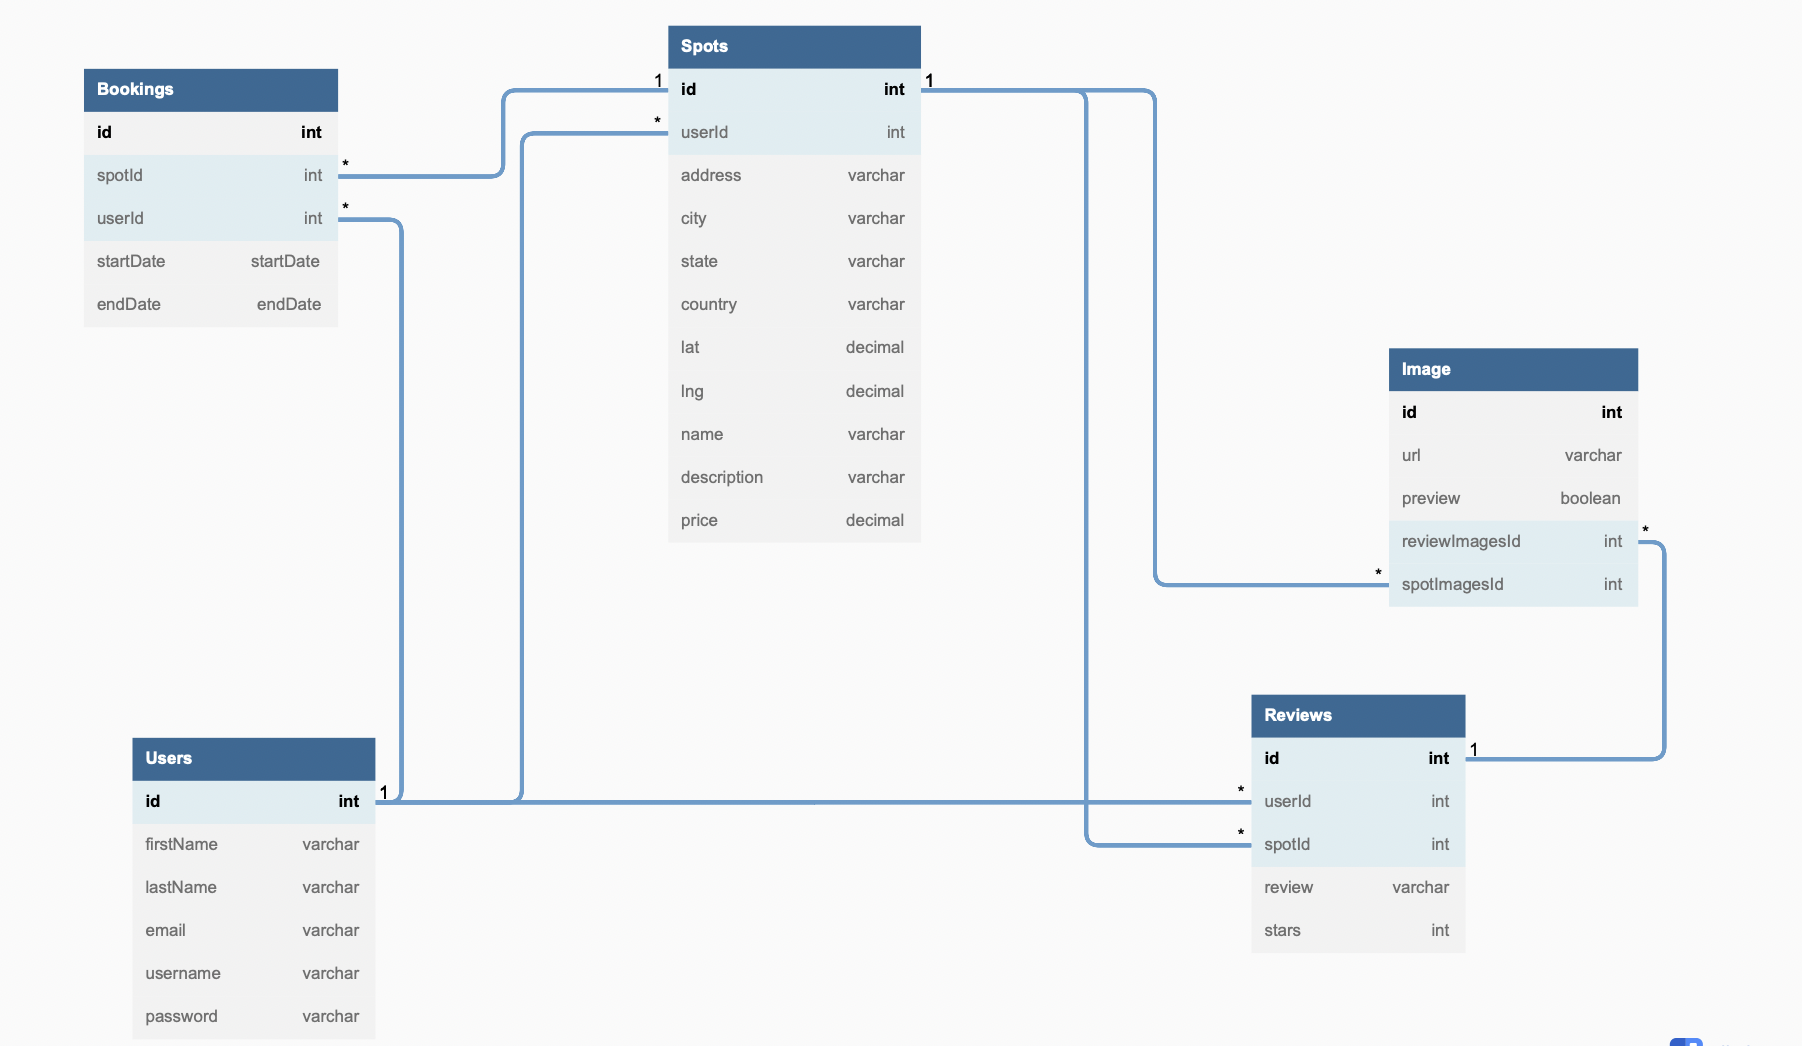
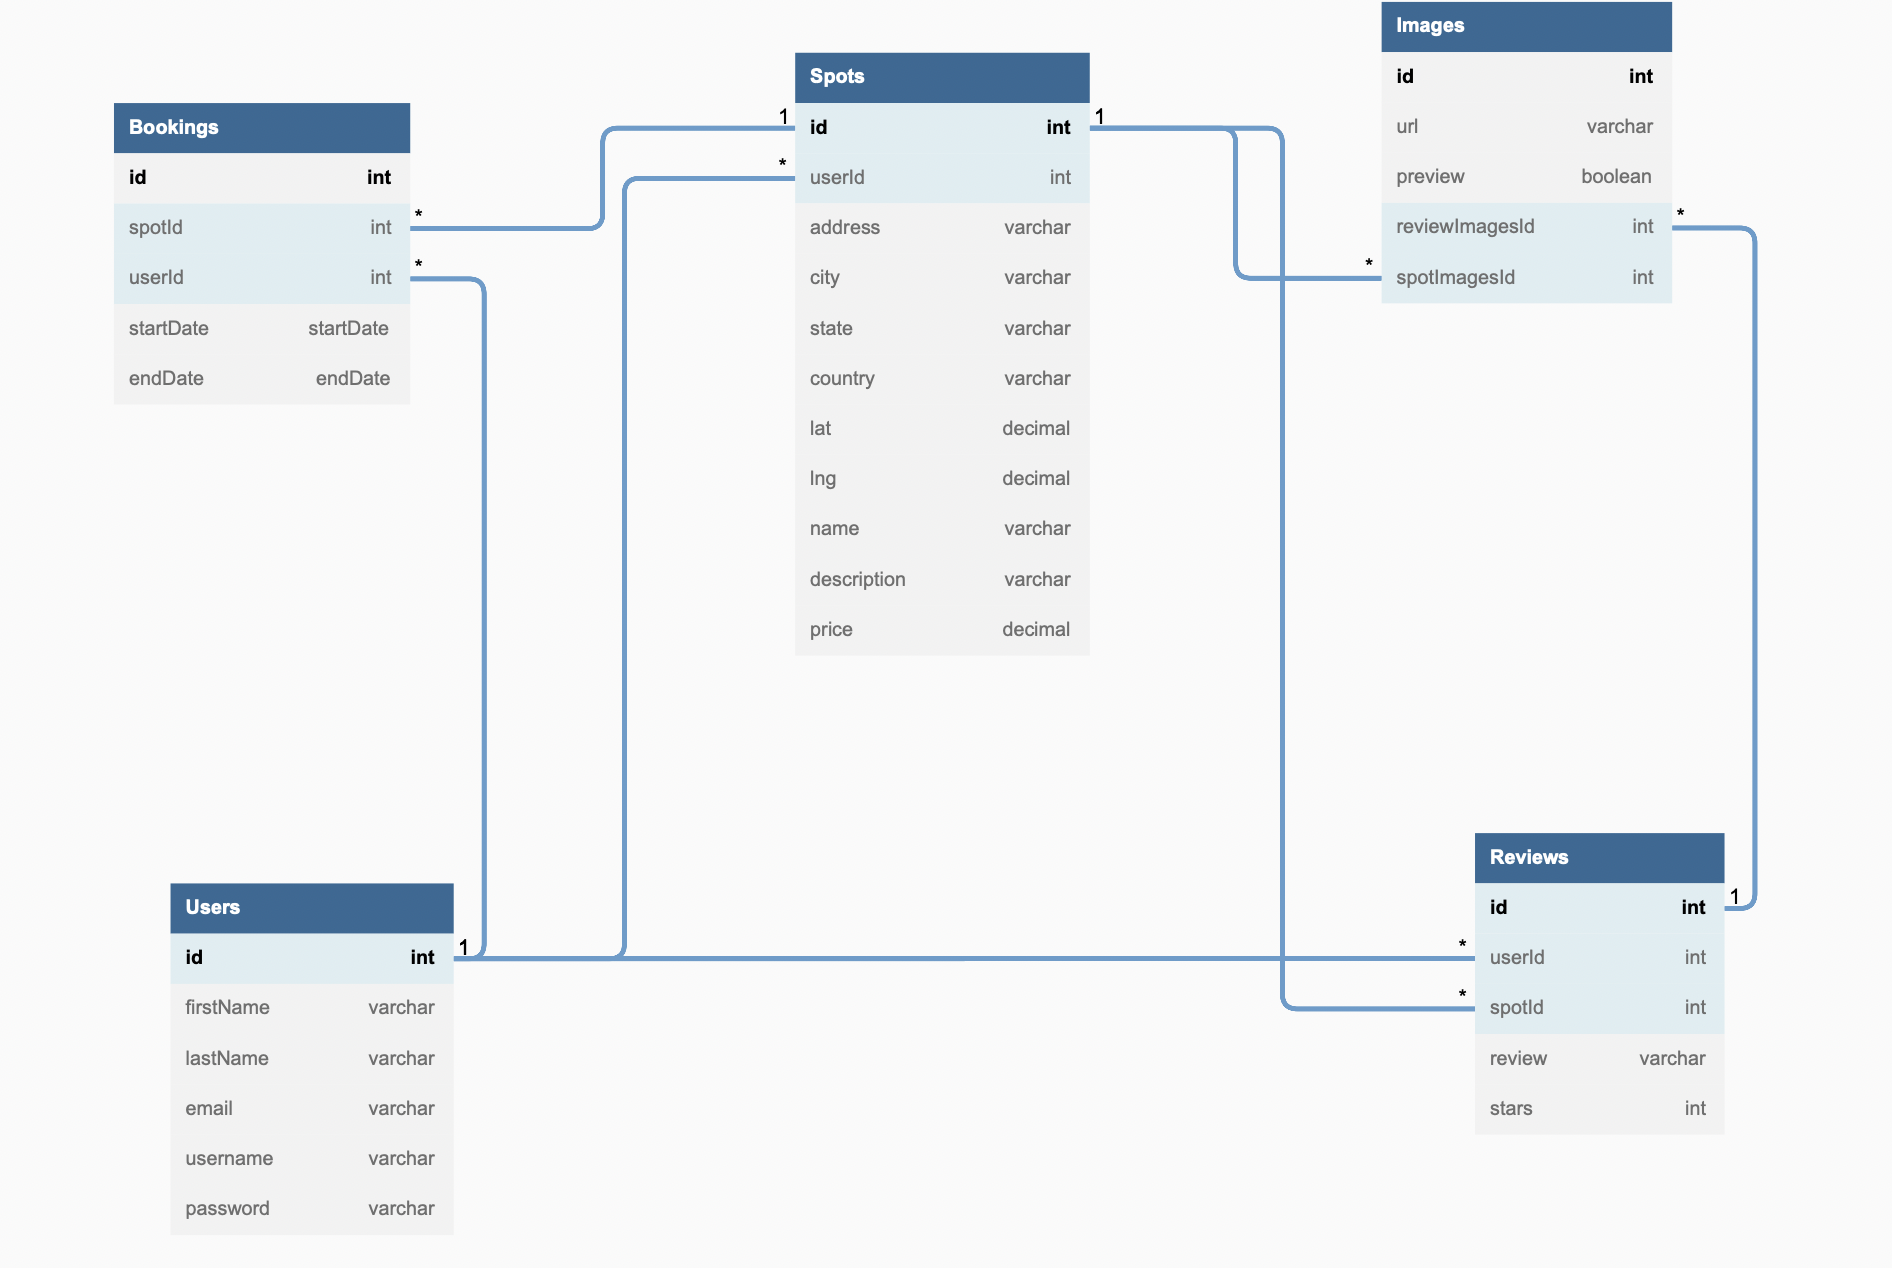
updated schema

diff --git a/README.md b/README.md
@@ -484,7 +484,7 @@ Create and return a new image for a spot specified by id.
 - Request
 
   - Method: POST
-  - URL: /api/spots/:spotId/image
+  - URL: /api/spots/:spotId/images
   - Headers:
     - Content-Type: application/json
   - Body:
@@ -870,7 +870,7 @@ Create and return a new image for a review specified by id.
 - Request
 
   - Method: POST
-  - URL: /api/reviews/:reviewId/image
+  - URL: /api/reviews/:reviewId/images
   - Headers:
     - Content-Type: application/json
   - Body:
@@ -1413,7 +1413,7 @@ Delete an existing image for a Spot.
 - Request
 
   - Method: DELETE
-  - URL: /api/spots/:spotId/image/imageId
+  - URL: /api/spots/:spotId/images/spotImagesId
   - Body: none
 
 - Successful Response
@@ -1453,7 +1453,7 @@ Delete an existing image for a Review.
 - Request
 
   - Method: DELETE
-  - URL: /api/reviews/:reviewId/image/imageId
+  - URL: /api/reviews/:reviewId/images/reviewImagesId
   - Body: none
 
 - Successful Response
